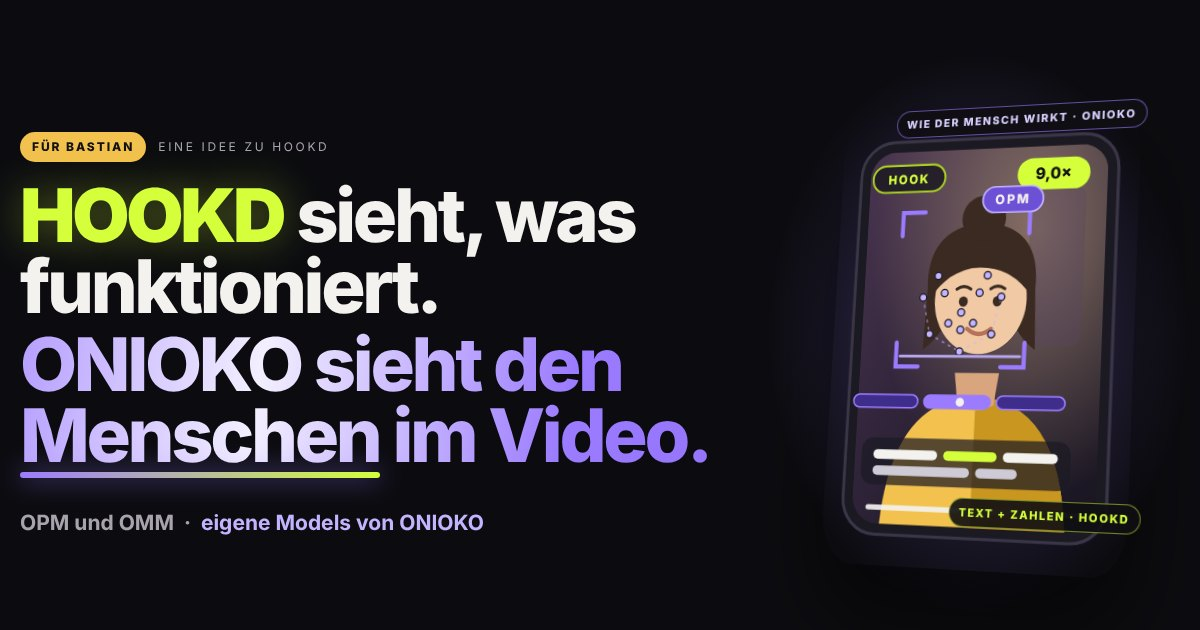
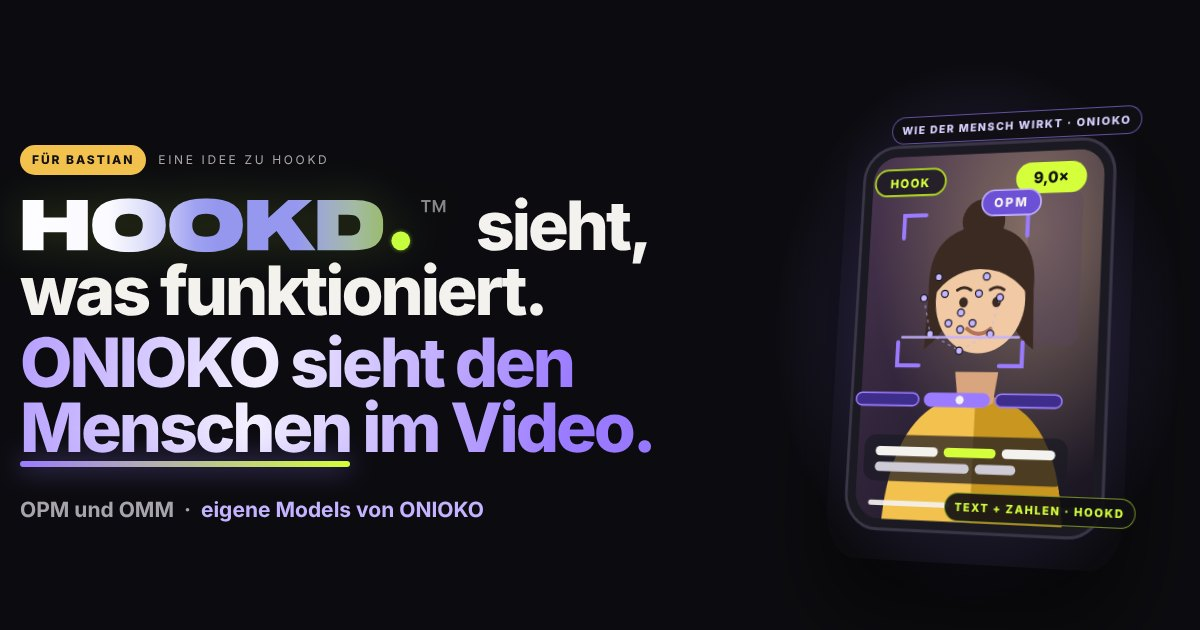
Use the original HOOKD wordmark in title and closing
Claude-Session: https://claude.ai/code/session_0141Pk4sLReujPFjLqrkQBK4

Changed region(s): [[0.0, 0.2111, 0.5858, 0.8444], [0.6783, 0.1508, 0.9558, 0.8746]]

diff --git a/hookd/index.html b/hookd/index.html
@@ -176,7 +176,7 @@ svg.paths path.live.m{stroke:var(--mara);filter:drop-shadow(0 0 6px rgba(242,193
 .hero h1{font-size:clamp(40px,5.5vw,88px);letter-spacing:-.045em;line-height:.96;font-weight:850}
 .hero h1 .t1,.hero h1 .t2{display:block}
 .hero h1 .t1{color:var(--ink)}
-.hero h1 b{color:var(--hookd);text-shadow:0 0 42px rgba(212,255,58,.35)}
+.hero h1 .hk svg{display:inline-block;height:.8em;width:6.53em;vertical-align:-.035em;overflow:visible;filter:drop-shadow(0 0 22px rgba(198,255,61,.16))}
 .hero h1 .t2{margin-top:.1em;padding-bottom:.08em;background:linear-gradient(100deg,#c4b3ff 0%,#9b7bff 28%,#f3efff 46%,#9b7bff 62%,#7b5cf0 100%);background-size:260% 100%;background-position:100% 0;-webkit-background-clip:text;background-clip:text;color:transparent;animation:sheen 7s ease-in-out infinite}
 .hero h1 i{font-style:normal}
 .hero h1 em{font-style:normal;position:relative;white-space:nowrap}
@@ -311,7 +311,15 @@ footer{padding-top:30px;padding-bottom:60px;color:var(--mute);font-size:13px;bor
   <div class="hero-grid">
     <div class="hero-txt">
       <div class="kicker"><span class="kp">Für Bastian</span><span>Eine Idee zu HOOKD</span></div>
-      <h1><span class="t1"><b>HOOKD</b> sieht, was funktioniert.</span><span class="t2"><i>ONIOKO</i> sieht den <em>Menschen</em> im Video.</span></h1>
+      <h1><span class="t1"><span class="hk"><svg class="hkwm"  xmlns="http://www.w3.org/2000/svg" viewBox="0 -744 6319 774" role="img" aria-label="HOOKD">
+<title>HOOKD™</title>
+<defs><linearGradient id="hkhv" gradientUnits="userSpaceOnUse" x1="35.0" y1="0" x2="5171.0" y2="0"><stop offset="0%" stop-color="#fdfdff"/><stop offset="24%" stop-color="#fafaff"/><stop offset="32%" stop-color="#e4e5fa"/><stop offset="40%" stop-color="#c4c5f7"/><stop offset="48%" stop-color="#9fa1f1"/><stop offset="54%" stop-color="#9597ef"/><stop offset="76%" stop-color="#9698f0"/><stop offset="84%" stop-color="#9faccb"/><stop offset="92%" stop-color="#a3baa4"/><stop offset="100%" stop-color="#9bbb6f"/></linearGradient><clipPath id="hkhb"><path transform="translate(0.0,0) scale(1.00000)" d="M665 465V714H965V0H665V257H335V0H35V714H335V465Z"/><path transform="translate(1005.0,0) scale(1.00000)" d="M1070 357Q1070 161 941.0 67.0Q812 -27 546 -27Q280 -27 151.0 67.0Q22 161 22 357Q22 553 151.0 647.0Q280 741 546 741Q812 741 941.0 647.0Q1070 553 1070 357ZM742 357Q742 521 546 521Q350 521 350 357Q350 193 546 193Q742 193 742 357Z"/><path transform="translate(2102.0,0) scale(1.00000)" d="M1070 357Q1070 161 941.0 67.0Q812 -27 546 -27Q280 -27 151.0 67.0Q22 161 22 357Q22 553 151.0 647.0Q280 741 546 741Q812 741 941.0 647.0Q1070 553 1070 357ZM742 357Q742 521 546 521Q350 521 350 357Q350 193 546 193Q742 193 742 357Z"/><path transform="translate(3199.0,0) scale(1.00000)" d="M959 714 663 459 1008 0H648L452 276L335 176V0H35V714H335V461L618 714Z"/><path transform="translate(4198.0,0) scale(1.00000)" d="M555 714Q702 714 793.5 679.0Q885 644 929.0 565.5Q973 487 973 357Q973 227 929.0 148.5Q885 70 793.5 35.0Q702 0 555 0H35V714ZM335 504V210H473Q563 210 604.0 244.0Q645 278 645 357Q645 436 604.0 470.0Q563 504 473 504Z"/></clipPath><filter id="hkhs" x="-70%" y="-70%" width="240%" height="240%"><feGaussianBlur stdDeviation="32"/></filter></defs>
+<g transform="scale(1,-1)">
+<g clip-path="url(#hkhb)"><rect x="25" y="-50" width="5156" height="900" fill="url(#hkhv)"/></g>
+<circle cx="5419.0" cy="134.0" r="134.0" fill="#C6FF3D" opacity=".55" filter="url(#hkhs)"/><circle cx="5419.0" cy="134.0" r="134.0" fill="#C6FF3D"/>
+</g>
+<g transform="translate(5683.0,-237.2) scale(1,-1)" fill="#ffffff" fill-opacity=".5"><path transform="translate(0.0,0) scale(0.32)" d="M851 954 615 1490H713L876 1099L1040 1490H1137L903 954ZM597 954V1490H692V954ZM1060 954V1490H1157V954ZM244 954V1442H341V954ZM82 1406V1490H503V1406Z"/></g>
+</svg></span> sieht, was funktioniert.</span><span class="t2"><i>ONIOKO</i> sieht den <em>Menschen</em> im Video.</span></h1>
       <p class="punch">Ich bin in der Founder-Runde dabei, weil HOOKD die Frage "Was poste ich als Nächstes?" sauberer beantwortet als alles, was ich kenne. Diese Seite zeigt, was wir bei ONIOKO bauen, und 3 Stellen, an denen es in HOOKD etwas Neues möglich machen könnte. Ob und wo, entscheidest du.</p>
       <p class="meta">Jedes Content-Tool liest an einem Video 2 Dinge: was gesagt wird und wie es gelaufen ist. Wir haben eigene Models gebaut, die eine dritte Sache lesen: wie der Mensch darin wirkt. <b>OPM</b> sieht Gesicht, Stimme und Körper, Abschnitt für Abschnitt. <b>OMM</b> merkt sich, wie sich das über Wochen entwickelt. Beides ist Technologie, die in Produkten arbeitet.</p>
     </div>
@@ -744,7 +752,15 @@ footer{padding-top:30px;padding-bottom:60px;color:var(--mute);font-size:13px;bor
   </div>
 
   <div class="close">
-    <div class="close-art"><svg viewBox="-107 -206 441 367" role="img" aria-label="HOOKD als Produkt oben, darunter die Models OMM und OPM von ONIOKO"><defs><filter id="cb" x="-50%" y="-50%" width="200%" height="200%"><feGaussianBlur stdDeviation="20"/></filter></defs><ellipse cx="18" cy="71" rx="101" ry="50" fill="#9b7bff" fill-opacity=".22" filter="url(#cb)"/><g><polygon points="-87.3,34.4 36.4,105.8 36.4,121.8 -87.3,50.4" fill="#6c50d6"/><polygon points="123.7,55.4 36.4,105.8 36.4,121.8 123.7,71.4" fill="#3e2d8a"/><polygon points="0.0,-16.0 123.7,55.4 36.4,105.8 -87.3,34.4" fill="#9b7bff"/><polygon points="0.0,-16.0 123.7,55.4 36.4,105.8 -87.3,34.4" fill="none" stroke="#fff" stroke-opacity=".25" stroke-width="1.5"/></g><line x1="130" y1="63" x2="156" y2="63" stroke="#f4f2ee" stroke-opacity=".6" stroke-width="2" stroke-dasharray="3 5"/><g><animateTransform attributeName="transform" type="translate" values="0 0;0 -4;0 0" dur="4.5s" repeatCount="indefinite"/><polygon points="-87.3,-45.4 36.4,26.0 36.4,42.0 -87.3,-29.4" fill="#9b7bff"/><polygon points="123.7,-24.4 36.4,26.0 36.4,42.0 123.7,-8.4" fill="#6c50d6"/><polygon points="0.0,-95.8 123.7,-24.4 36.4,26.0 -87.3,-45.4" fill="#b7a3ff"/><polygon points="0.0,-95.8 123.7,-24.4 36.4,26.0 -87.3,-45.4" fill="none" stroke="#fff" stroke-opacity=".25" stroke-width="1.5"/></g><line x1="130" y1="-16" x2="156" y2="-16" stroke="#f4f2ee" stroke-opacity=".6" stroke-width="2" stroke-dasharray="3 5"/><g><animateTransform attributeName="transform" type="translate" values="0 0;0 -9;0 0" dur="4.5s" repeatCount="indefinite"/><polygon points="-87.3,-125.2 36.4,-53.8 36.4,-37.8 -87.3,-109.2" fill="#9fc42c"/><polygon points="123.7,-104.2 36.4,-53.8 36.4,-37.8 123.7,-88.2" fill="#5f7a16"/><polygon points="0.0,-175.6 123.7,-104.2 36.4,-53.8 -87.3,-125.2" fill="#d4ff3a"/><polygon points="0.0,-175.6 123.7,-104.2 36.4,-53.8 -87.3,-125.2" fill="none" stroke="#fff" stroke-opacity=".25" stroke-width="1.5"/></g><line x1="130" y1="-96" x2="156" y2="-96" stroke="#d4ff3a" stroke-opacity=".6" stroke-width="2" stroke-dasharray="3 5"/><line x1="-12" y1="28" x2="-12" y2="-116" stroke="#c4b3ff" stroke-width="2.4" stroke-dasharray="4 7" stroke-linecap="round"><animate attributeName="stroke-dashoffset" values="0;22" dur="1.2s" repeatCount="indefinite"/></line><line x1="47" y1="61" x2="47" y2="-82" stroke="#c4b3ff" stroke-width="2.4" stroke-dasharray="4 7" stroke-linecap="round"><animate attributeName="stroke-dashoffset" values="0;22" dur="1.2s" repeatCount="indefinite"/></line><text x="164" y="65" fill="#f4f2ee" font-size="26" font-weight="850" letter-spacing="1" font-family="-apple-system,Inter,sans-serif">OPM</text><text x="164" y="87" fill="#cfcbd6" font-size="16" font-weight="600" font-family="-apple-system,Inter,sans-serif">Wahrnehmung</text><text x="164" y="-14" fill="#f4f2ee" font-size="26" font-weight="850" letter-spacing="1" font-family="-apple-system,Inter,sans-serif">OMM</text><text x="164" y="8" fill="#cfcbd6" font-size="16" font-weight="600" font-family="-apple-system,Inter,sans-serif">Gedächtnis</text><text x="164" y="-94" fill="#d4ff3a" font-size="26" font-weight="850" letter-spacing="1" font-family="-apple-system,Inter,sans-serif">HOOKD</text><text x="164" y="-72" fill="#cfcbd6" font-size="16" font-weight="600" font-family="-apple-system,Inter,sans-serif">dein Produkt</text></svg></div>
+    <div class="close-art"><svg viewBox="-107 -206 506 367" role="img" aria-label="HOOKD als Produkt oben, darunter die Models OMM und OPM von ONIOKO"><defs><filter id="cb" x="-50%" y="-50%" width="200%" height="200%"><feGaussianBlur stdDeviation="20"/></filter></defs><ellipse cx="18" cy="71" rx="101" ry="50" fill="#9b7bff" fill-opacity=".22" filter="url(#cb)"/><g><polygon points="-87.3,34.4 36.4,105.8 36.4,121.8 -87.3,50.4" fill="#6c50d6"/><polygon points="123.7,55.4 36.4,105.8 36.4,121.8 123.7,71.4" fill="#3e2d8a"/><polygon points="0.0,-16.0 123.7,55.4 36.4,105.8 -87.3,34.4" fill="#9b7bff"/><polygon points="0.0,-16.0 123.7,55.4 36.4,105.8 -87.3,34.4" fill="none" stroke="#fff" stroke-opacity=".25" stroke-width="1.5"/></g><line x1="130" y1="63" x2="156" y2="63" stroke="#f4f2ee" stroke-opacity=".6" stroke-width="2" stroke-dasharray="3 5"/><g><animateTransform attributeName="transform" type="translate" values="0 0;0 -4;0 0" dur="4.5s" repeatCount="indefinite"/><polygon points="-87.3,-45.4 36.4,26.0 36.4,42.0 -87.3,-29.4" fill="#9b7bff"/><polygon points="123.7,-24.4 36.4,26.0 36.4,42.0 123.7,-8.4" fill="#6c50d6"/><polygon points="0.0,-95.8 123.7,-24.4 36.4,26.0 -87.3,-45.4" fill="#b7a3ff"/><polygon points="0.0,-95.8 123.7,-24.4 36.4,26.0 -87.3,-45.4" fill="none" stroke="#fff" stroke-opacity=".25" stroke-width="1.5"/></g><line x1="130" y1="-16" x2="156" y2="-16" stroke="#f4f2ee" stroke-opacity=".6" stroke-width="2" stroke-dasharray="3 5"/><g><animateTransform attributeName="transform" type="translate" values="0 0;0 -9;0 0" dur="4.5s" repeatCount="indefinite"/><polygon points="-87.3,-125.2 36.4,-53.8 36.4,-37.8 -87.3,-109.2" fill="#9fc42c"/><polygon points="123.7,-104.2 36.4,-53.8 36.4,-37.8 123.7,-88.2" fill="#5f7a16"/><polygon points="0.0,-175.6 123.7,-104.2 36.4,-53.8 -87.3,-125.2" fill="#d4ff3a"/><polygon points="0.0,-175.6 123.7,-104.2 36.4,-53.8 -87.3,-125.2" fill="none" stroke="#fff" stroke-opacity=".25" stroke-width="1.5"/></g><line x1="130" y1="-96" x2="156" y2="-96" stroke="#d4ff3a" stroke-opacity=".6" stroke-width="2" stroke-dasharray="3 5"/><line x1="-12" y1="28" x2="-12" y2="-116" stroke="#c4b3ff" stroke-width="2.4" stroke-dasharray="4 7" stroke-linecap="round"><animate attributeName="stroke-dashoffset" values="0;22" dur="1.2s" repeatCount="indefinite"/></line><line x1="47" y1="61" x2="47" y2="-82" stroke="#c4b3ff" stroke-width="2.4" stroke-dasharray="4 7" stroke-linecap="round"><animate attributeName="stroke-dashoffset" values="0;22" dur="1.2s" repeatCount="indefinite"/></line><text x="164" y="65" fill="#f4f2ee" font-size="26" font-weight="850" letter-spacing="1" font-family="-apple-system,Inter,sans-serif">OPM</text><text x="164" y="87" fill="#cfcbd6" font-size="16" font-weight="600" font-family="-apple-system,Inter,sans-serif">Wahrnehmung</text><text x="164" y="-14" fill="#f4f2ee" font-size="26" font-weight="850" letter-spacing="1" font-family="-apple-system,Inter,sans-serif">OMM</text><text x="164" y="8" fill="#cfcbd6" font-size="16" font-weight="600" font-family="-apple-system,Inter,sans-serif">Gedächtnis</text><svg class="hkwm" x="164" y="-118" width="212" height="26" viewBox="0 -744 6319 774" xmlns="http://www.w3.org/2000/svg" role="img" aria-label="HOOKD">
+<title>HOOKD™</title>
+<defs><linearGradient id="hkcv" gradientUnits="userSpaceOnUse" x1="35.0" y1="0" x2="5171.0" y2="0"><stop offset="0%" stop-color="#fdfdff"/><stop offset="24%" stop-color="#fafaff"/><stop offset="32%" stop-color="#e4e5fa"/><stop offset="40%" stop-color="#c4c5f7"/><stop offset="48%" stop-color="#9fa1f1"/><stop offset="54%" stop-color="#9597ef"/><stop offset="76%" stop-color="#9698f0"/><stop offset="84%" stop-color="#9faccb"/><stop offset="92%" stop-color="#a3baa4"/><stop offset="100%" stop-color="#9bbb6f"/></linearGradient><clipPath id="hkcb"><path transform="translate(0.0,0) scale(1.00000)" d="M665 465V714H965V0H665V257H335V0H35V714H335V465Z"/><path transform="translate(1005.0,0) scale(1.00000)" d="M1070 357Q1070 161 941.0 67.0Q812 -27 546 -27Q280 -27 151.0 67.0Q22 161 22 357Q22 553 151.0 647.0Q280 741 546 741Q812 741 941.0 647.0Q1070 553 1070 357ZM742 357Q742 521 546 521Q350 521 350 357Q350 193 546 193Q742 193 742 357Z"/><path transform="translate(2102.0,0) scale(1.00000)" d="M1070 357Q1070 161 941.0 67.0Q812 -27 546 -27Q280 -27 151.0 67.0Q22 161 22 357Q22 553 151.0 647.0Q280 741 546 741Q812 741 941.0 647.0Q1070 553 1070 357ZM742 357Q742 521 546 521Q350 521 350 357Q350 193 546 193Q742 193 742 357Z"/><path transform="translate(3199.0,0) scale(1.00000)" d="M959 714 663 459 1008 0H648L452 276L335 176V0H35V714H335V461L618 714Z"/><path transform="translate(4198.0,0) scale(1.00000)" d="M555 714Q702 714 793.5 679.0Q885 644 929.0 565.5Q973 487 973 357Q973 227 929.0 148.5Q885 70 793.5 35.0Q702 0 555 0H35V714ZM335 504V210H473Q563 210 604.0 244.0Q645 278 645 357Q645 436 604.0 470.0Q563 504 473 504Z"/></clipPath><filter id="hkcs" x="-70%" y="-70%" width="240%" height="240%"><feGaussianBlur stdDeviation="32"/></filter></defs>
+<g transform="scale(1,-1)">
+<g clip-path="url(#hkcb)"><rect x="25" y="-50" width="5156" height="900" fill="url(#hkcv)"/></g>
+<circle cx="5419.0" cy="134.0" r="134.0" fill="#C6FF3D" opacity=".55" filter="url(#hkcs)"/><circle cx="5419.0" cy="134.0" r="134.0" fill="#C6FF3D"/>
+</g>
+<g transform="translate(5683.0,-237.2) scale(1,-1)" fill="#ffffff" fill-opacity=".5"><path transform="translate(0.0,0) scale(0.32)" d="M851 954 615 1490H713L876 1099L1040 1490H1137L903 954ZM597 954V1490H692V954ZM1060 954V1490H1157V954ZM244 954V1442H341V954ZM82 1406V1490H503V1406Z"/></g>
+</svg><text x="164" y="-72" fill="#cfcbd6" font-size="16" font-weight="600" font-family="-apple-system,Inter,sans-serif">dein Produkt</text></svg></div>
     <div class="close-txt">
       <div class="k">Was ONIOKO ist</div>
       <h3>ONIOKO baut die Models. HOOKD bleibt dein Produkt.</h3>
@@ -754,7 +770,7 @@ footer{padding-top:30px;padding-bottom:60px;color:var(--mute);font-size:13px;bor
   </div>
 </section>
 
-<footer class="wrap">ONIOKO · Extended Human Cognition · Arbeitsstand 04.11.2026 · Mara und ihre Reels sind ein erfundenes Beispiel. HOOKD ist ein Produkt der Barami LLC.</footer>
+<footer class="wrap">ONIOKO · Extended Human Cognition · Arbeitsstand 04.11.2026 · Mara und ihre Reels sind ein erfundenes Beispiel. HOOKD und das HOOKD-Logo gehören der Barami LLC.</footer>
 
 <script>
 (function(){
